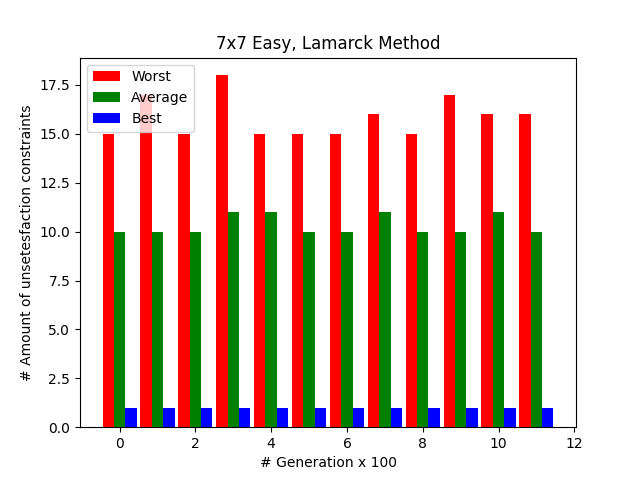
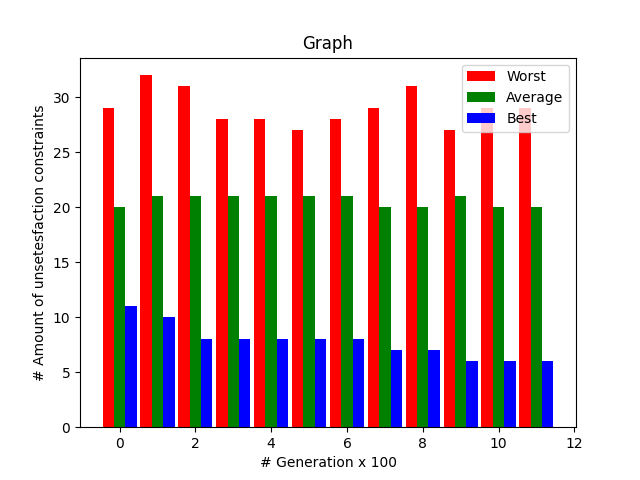
done

diff --git a/app.py b/app.py
@@ -1,4 +1,4 @@
-# Itamar Laredo
+# Itamar Laredo, 311547087
 from tkinter import *
 from futoshiki import FutoshikiSolver
 
@@ -24,15 +24,16 @@ class App(Tk):
         if size == 5:
             line = 1
         elif size == 6:
-            line = 9
+            line = 10
         else:
-            line = 17
+            line = 19
         self.geometry(lines[line].strip('\n'))
         self.minsize(int(lines[line+1].strip('\n')), int(lines[line+1].strip('\n')))
         self.maxsize(int(lines[line+1].strip('\n')), int(lines[line+1].strip('\n')))
         self.title('Futoshiki')
         self.configure(background="#2c313a", highlightcolor="#1f7db7")
         self.solver = FutoshikiSolver(self)
+        self.method_flag = 0
         self.frame = Canvas(
             bg="#404040",
             bd=0,
@@ -63,11 +64,71 @@ class App(Tk):
         run_btn_pos = lines[line+4].split()
         self.run_btn.place(relx=float(run_btn_pos[0]), rely=float(run_btn_pos[1]), width=265, height=40)
 
+        self.darwin_btn = Button(
+            master=self,
+            width=27,
+            bg="#404040",
+            fg="#f0f0f0",
+            highlightbackground="#100100100",
+            relief='groove',
+            font=("Consoles", 7, 'bold'),
+            text='Darwin Method',
+            command=self.darwin_btn_action
+        )
+        darwin_btn_pos = lines[line+7].split()
+        self.darwin_btn.place(relx=float(darwin_btn_pos[0]), rely=float(darwin_btn_pos[1]), width=80, height=40)
+
+        self.lamarck_btn = Button(
+            master=self,
+            width=27,
+            bg="#404040",
+            fg="#f0f0f0",
+            highlightbackground="#100100100",
+            relief='groove',
+            font=("Consoles", 7, 'bold'),
+            text='Lamarck Method',
+            command=self.lamarck_btn_action
+        )
+        self.lamarck_btn.place(relx=float(darwin_btn_pos[0]), rely=float(darwin_btn_pos[1]) + 0.1, width=80, height=40)
+
+        self.regular_btn = Button(
+            master=self,
+            width=27,
+            bg="#404040",
+            fg="#f0f0f0",
+            highlightbackground="#100100100",
+            relief='groove',
+            font=("Consoles", 7, 'bold'),
+            text='Regular Method',
+            command=self.regular_btn_action
+        )
+        self.regular_btn.place(relx=float(darwin_btn_pos[0]), rely=float(darwin_btn_pos[1]) + 0.2, width=80, height=40)
+
         self.lines_pos = lines[line+5].split()
         self.information_pos = lines[line+6].split()
 
     def run_btn_action(self):
+        if not self.method_flag:
+            return
         self.solver.main_loop()
+
+    def darwin_btn_action(self):
+        if self.method_flag:
+            return
+        self.method_flag = 1
+        self.solver.darwin = 1
+
+    def lamarck_btn_action(self):
+        if self.method_flag:
+            return
+        self.method_flag = 1
+        self.solver.lamarck = 1
+
+    def regular_btn_action(self):
+        if self.method_flag:
+            return
+        self.method_flag = 1
+        self.solver.lamarck = 1
 
     def paint_board(self, grid, sign_rows, sign_cols):
         y = float(self.lines_pos[1])

diff --git a/futoshiki.py b/futoshiki.py
@@ -1,4 +1,4 @@
-# Itamar Laredo
+# Itamar Laredo, 311547087
 import random
 import itertools
 from matplotlib import pyplot as plt
@@ -32,6 +32,9 @@ class FutoshikiSolver:
         first_generation_matrices = self.generate_matrices(NUM_OF_SOLUTIONS)
         self.generation = self.fitness(first_generation_matrices)
         self.data = []
+        self.darwin = 0
+        self.lamarck = 0
+        self.regular = 0
 
     def fitness(self, matrices):
         returned_matrices = []
@@ -203,14 +206,22 @@ class FutoshikiSolver:
             for i in range(0, int(NUM_OF_SOLUTIONS * MUTATE)):
                 next_generation[i] = mutate_matrices[i]
 
-            next_generation = self.lamarckism(next_generation) # Optional: Lamarckism
-            self.generation = self.fitness(next_generation)
+            if self.darwin:
+                darwin_next_generation = next_generation
+                next_generation = self.lamarckism(next_generation) # Optional: Lamarckism
+                next_generation = self.fitness(next_generation)
+                self.generation = next_generation
+            elif self.lamarck:
+                next_generation = self.lamarckism(next_generation)  # Optional: Lamarckism
+                self.generation = self.fitness(next_generation)
+            elif self.regular:
+                self.generation = self.fitness(next_generation)
 
             current_generation += 1
 
     def plot(self):
         plt.figure()
-        plt.title('7x7 Easy, Lamarck Method')
+        plt.title('Graph')
         plt.xlabel('# Generation x 100')
         plt.ylabel('# Amount of unsetesfaction constraints')
         best_sol = []

diff --git a/main.py b/main.py
@@ -1,4 +1,4 @@
-# Itamar Laredo
+# Itamar Laredo, 311547087
 from app import App
 
 if __name__ == '__main__':
